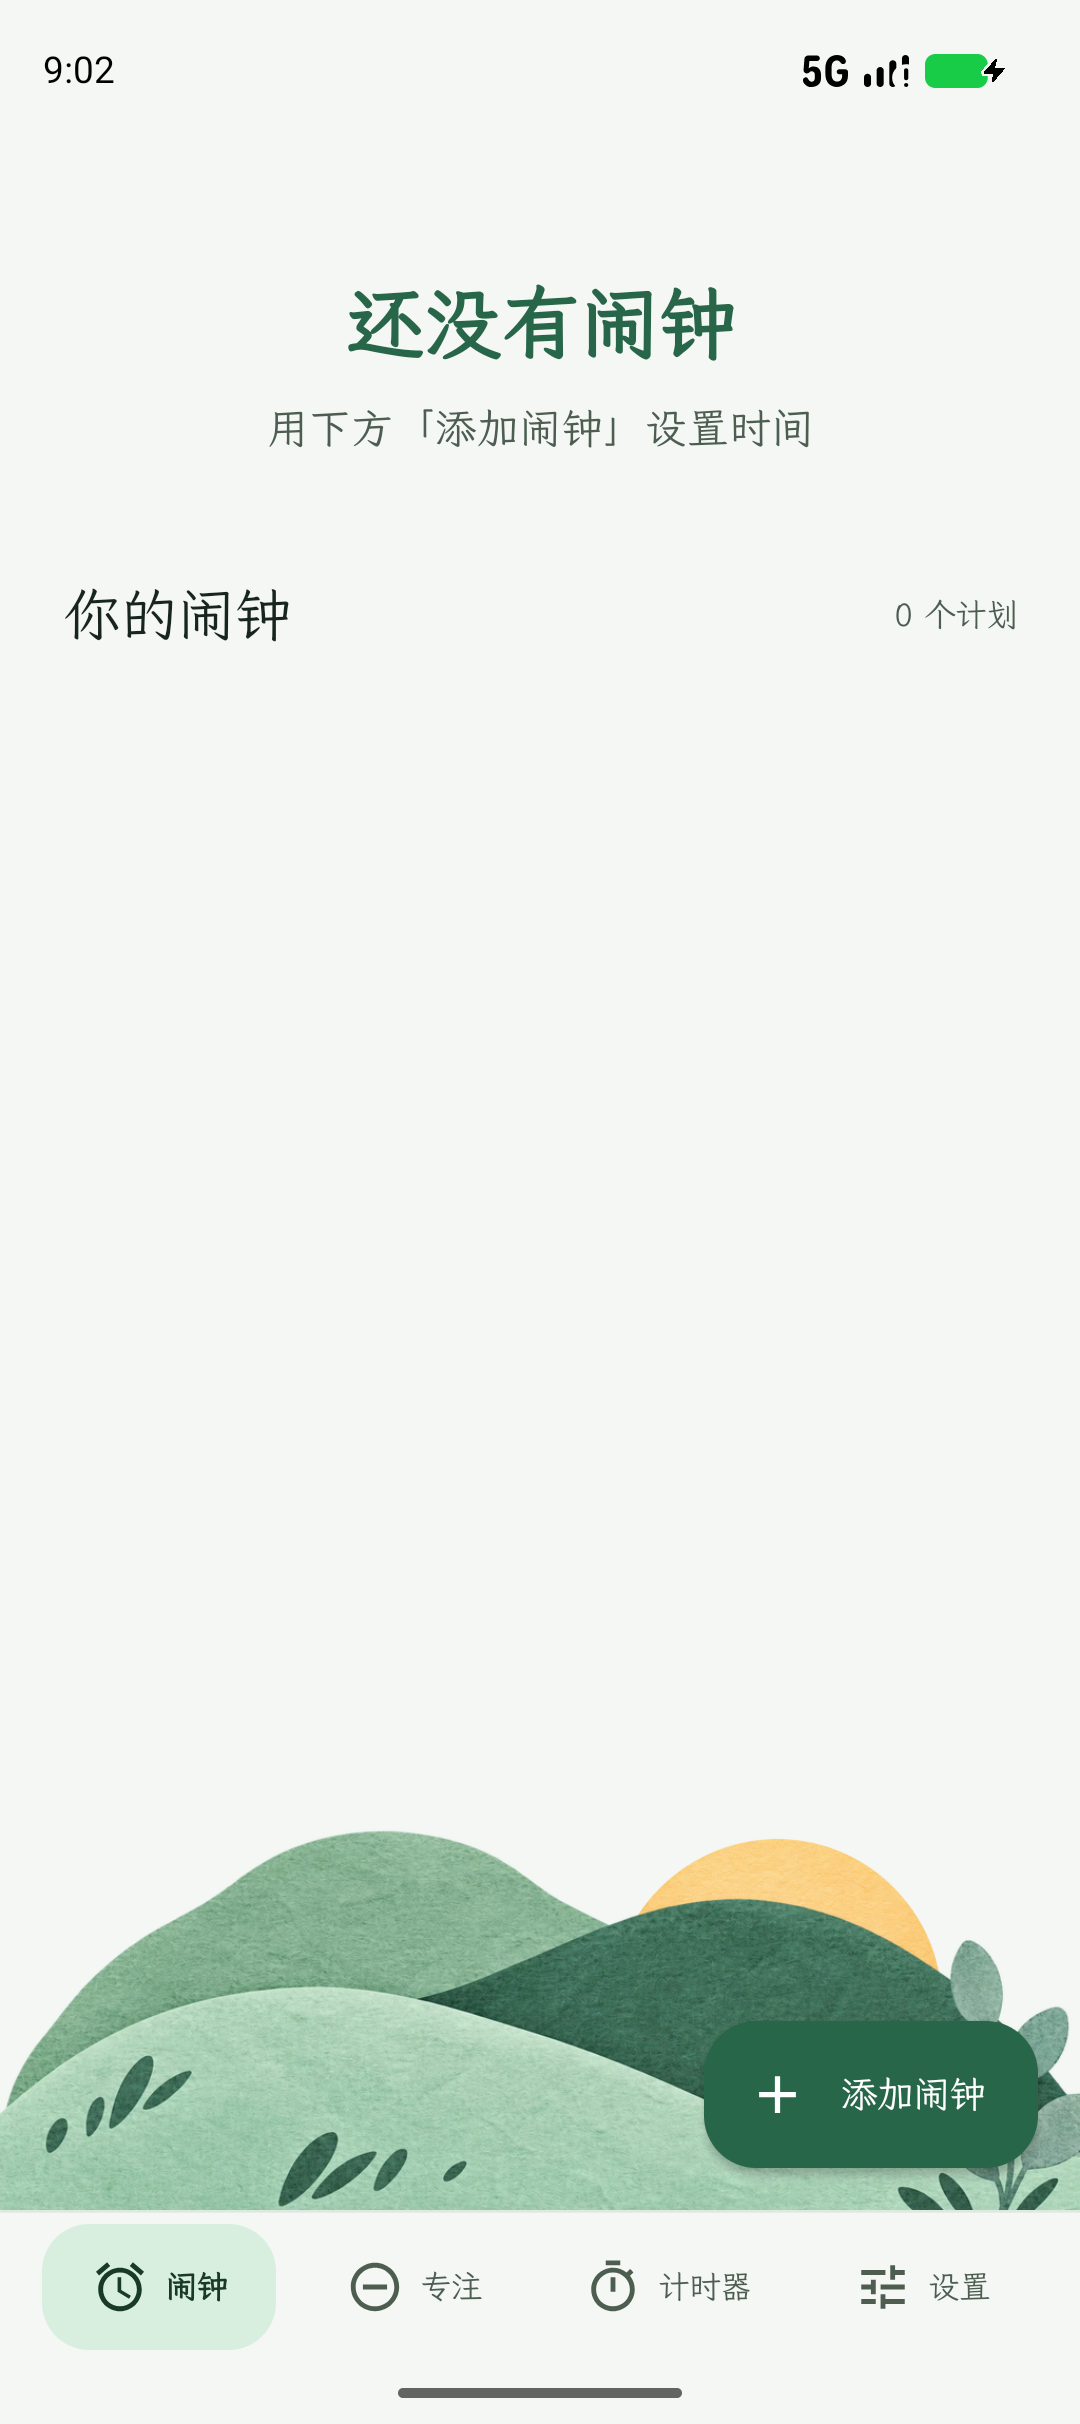
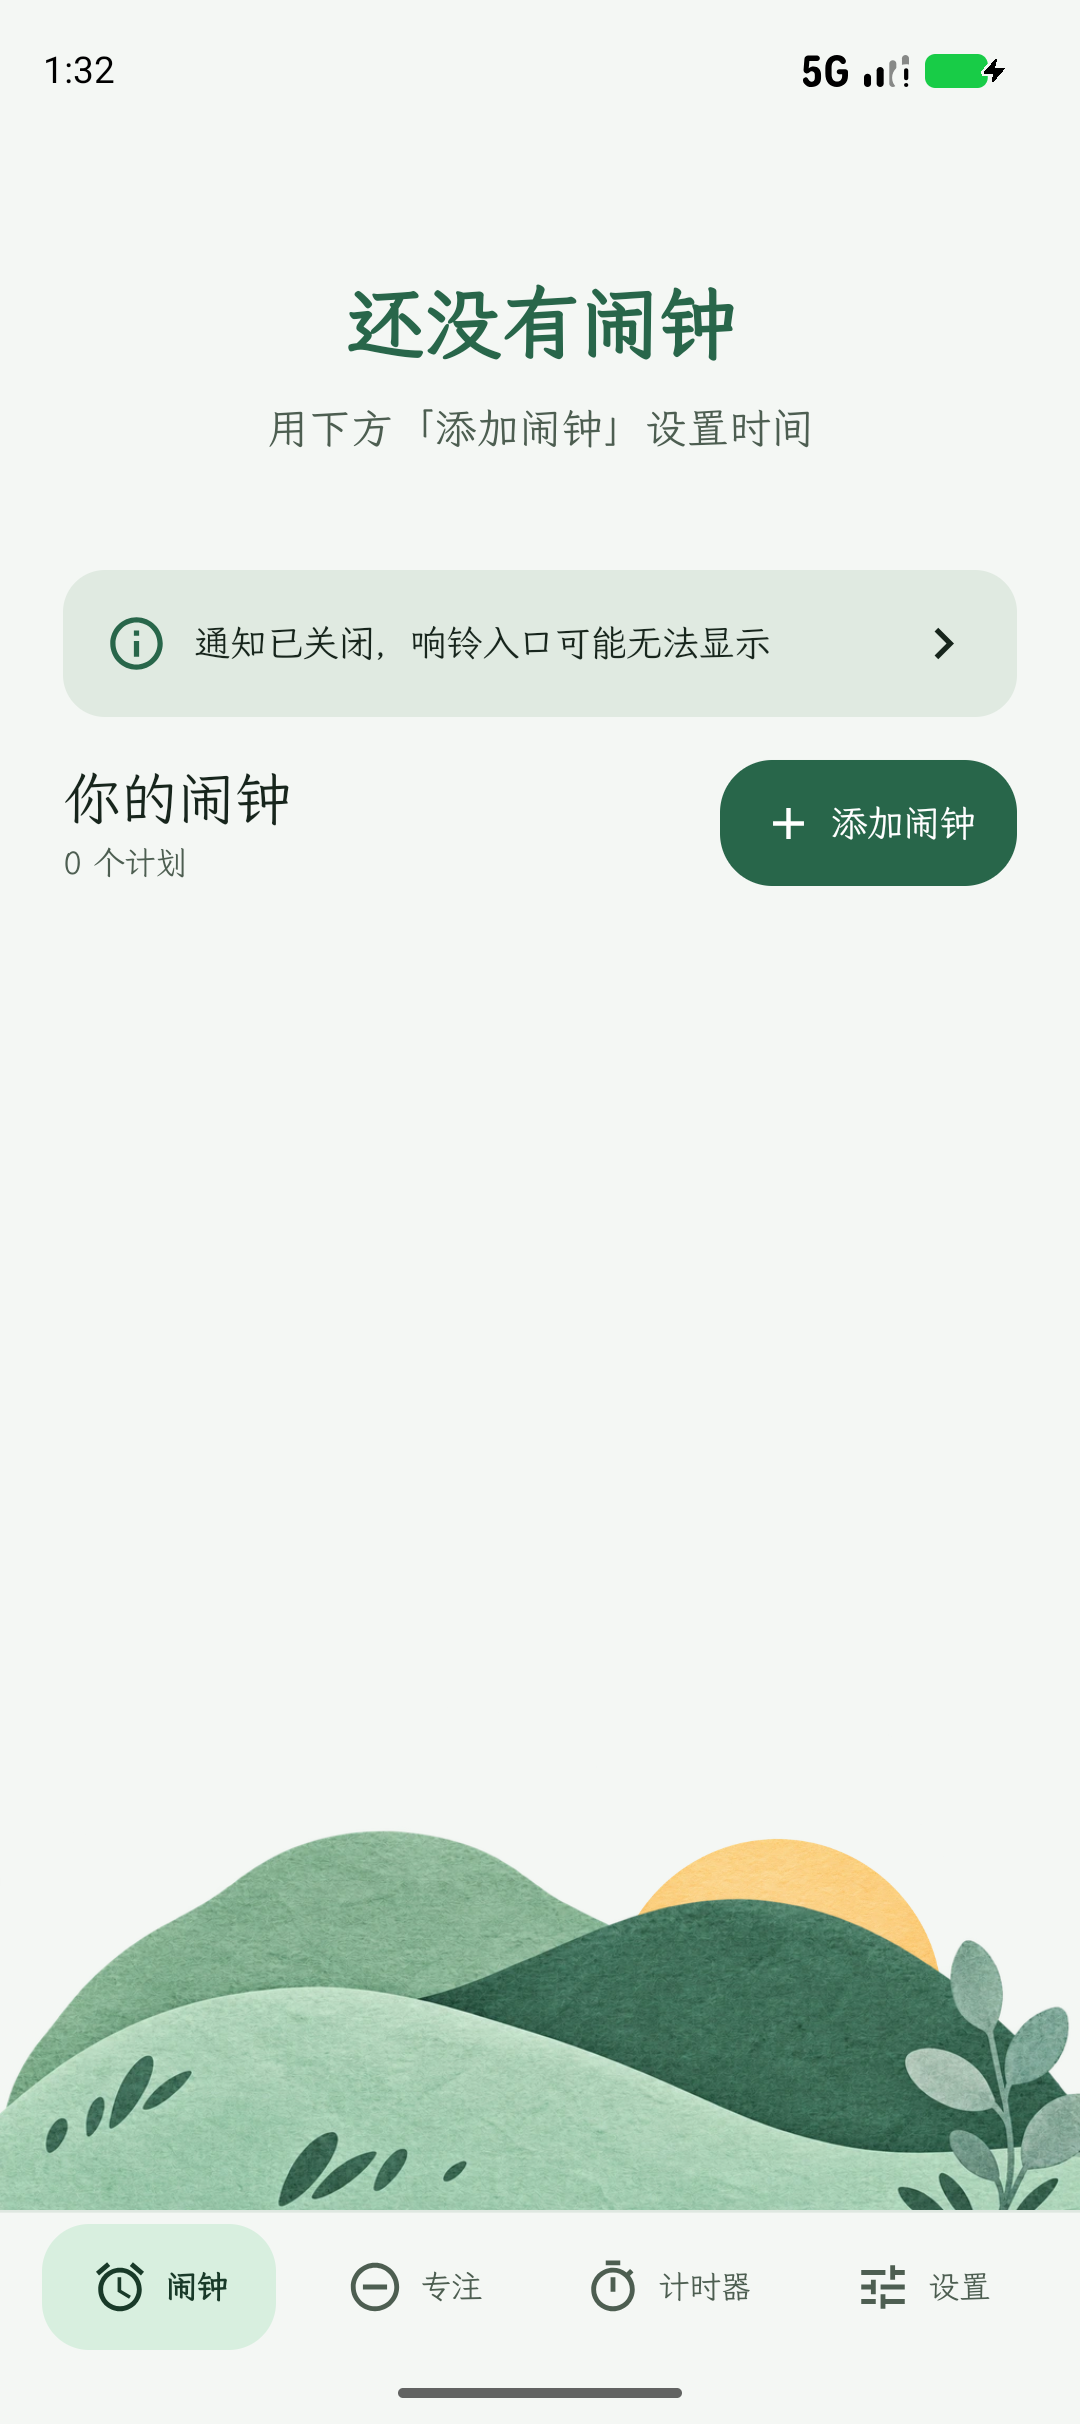
docs: refresh screenshots from current build in light theme

diff --git a/README.md b/README.md
@@ -10,9 +10,9 @@
 
 ## 界面展示
 
-以下为模拟器截图，使用空白或测试数据。
+以下为当前版本的浅色主题模拟器截图，使用空白数据。
 
-| 闹钟 | 专注 | 计时器（深色） | 设置 |
+| 闹钟 | 专注 | 计时器 | 设置 |
 | --- | --- | --- | --- |
 | <img src=".github/screenshots/emulator-alarm.png" alt="闹钟页面" width="200" /> | <img src=".github/screenshots/emulator-focus.png" alt="专注页面" width="200" /> | <img src=".github/screenshots/emulator-timer.png" alt="计时器页面" width="200" /> | <img src=".github/screenshots/emulator-settings.png" alt="设置页面" width="200" /> |
 
